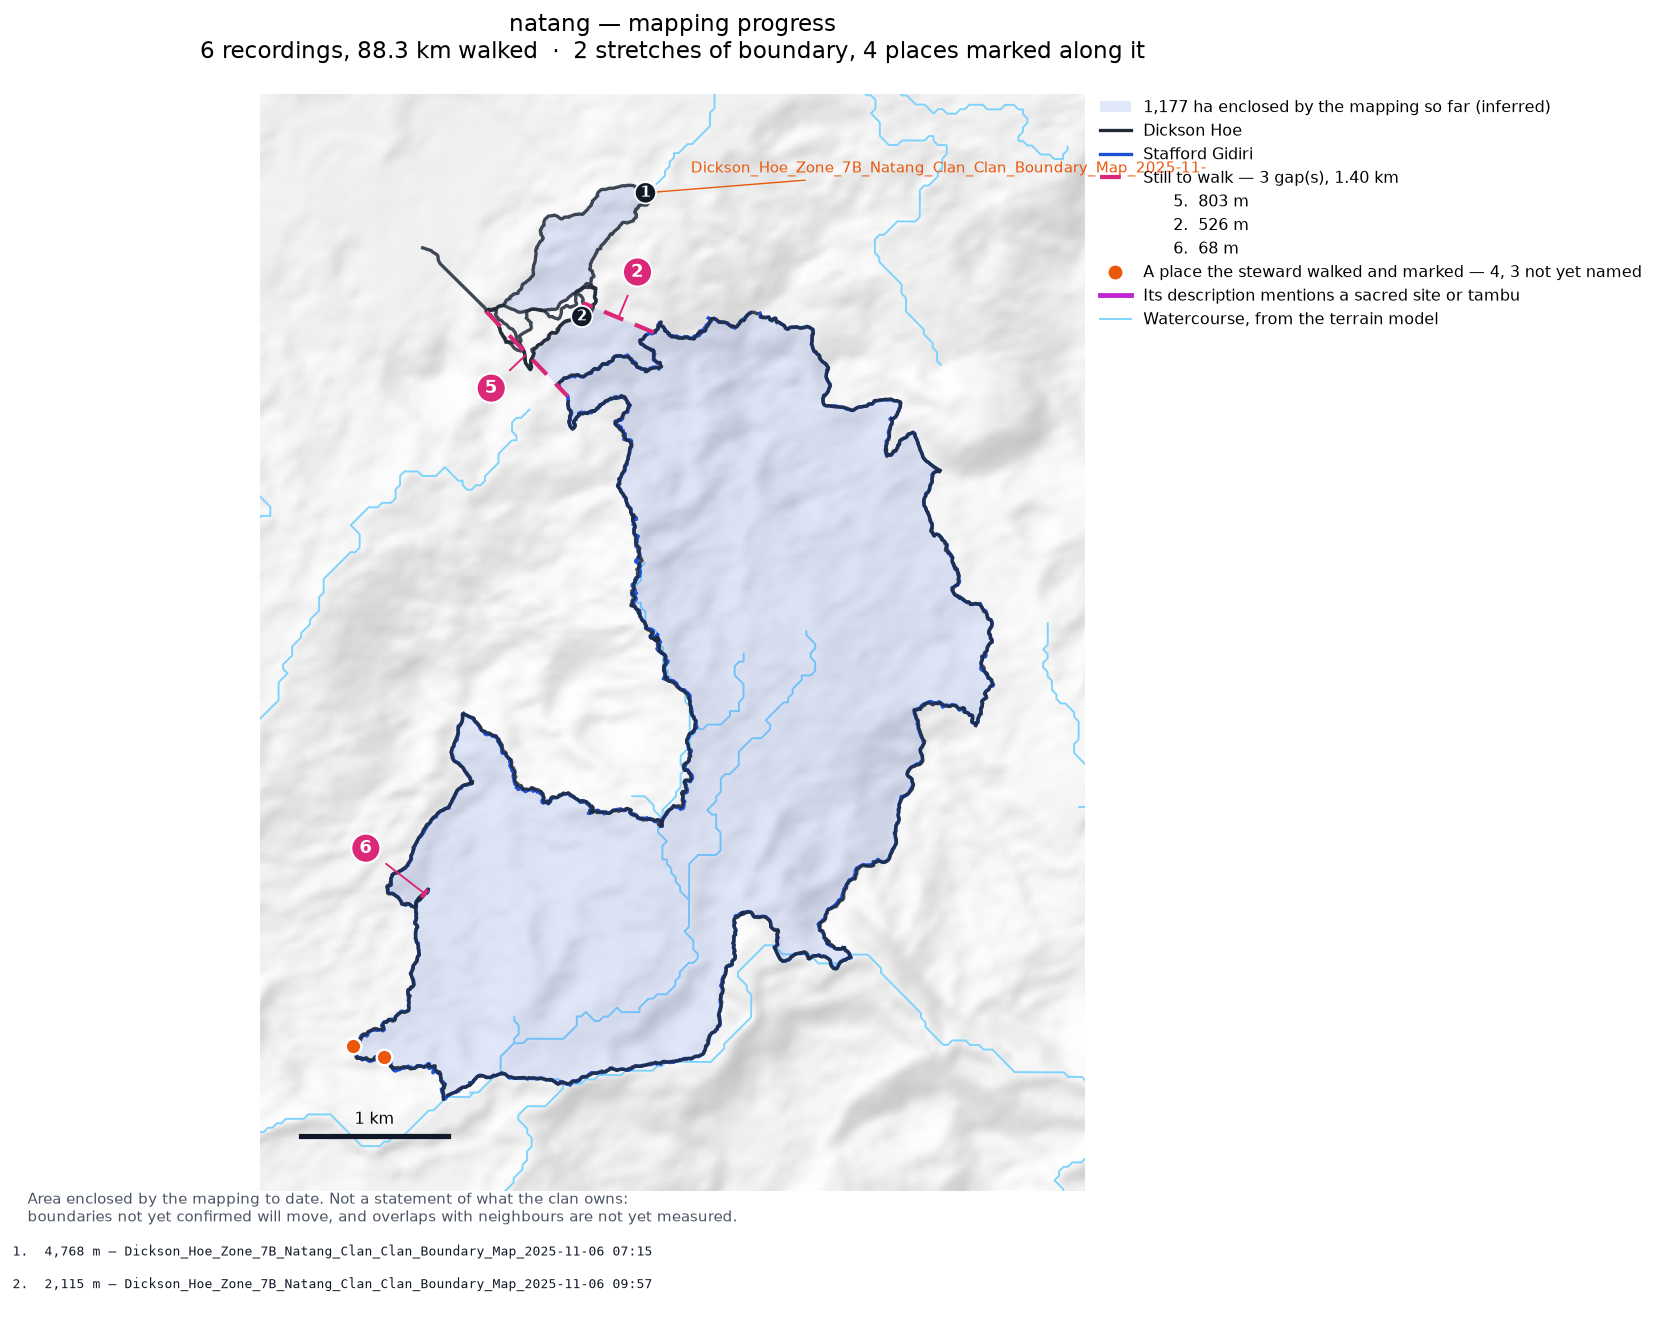
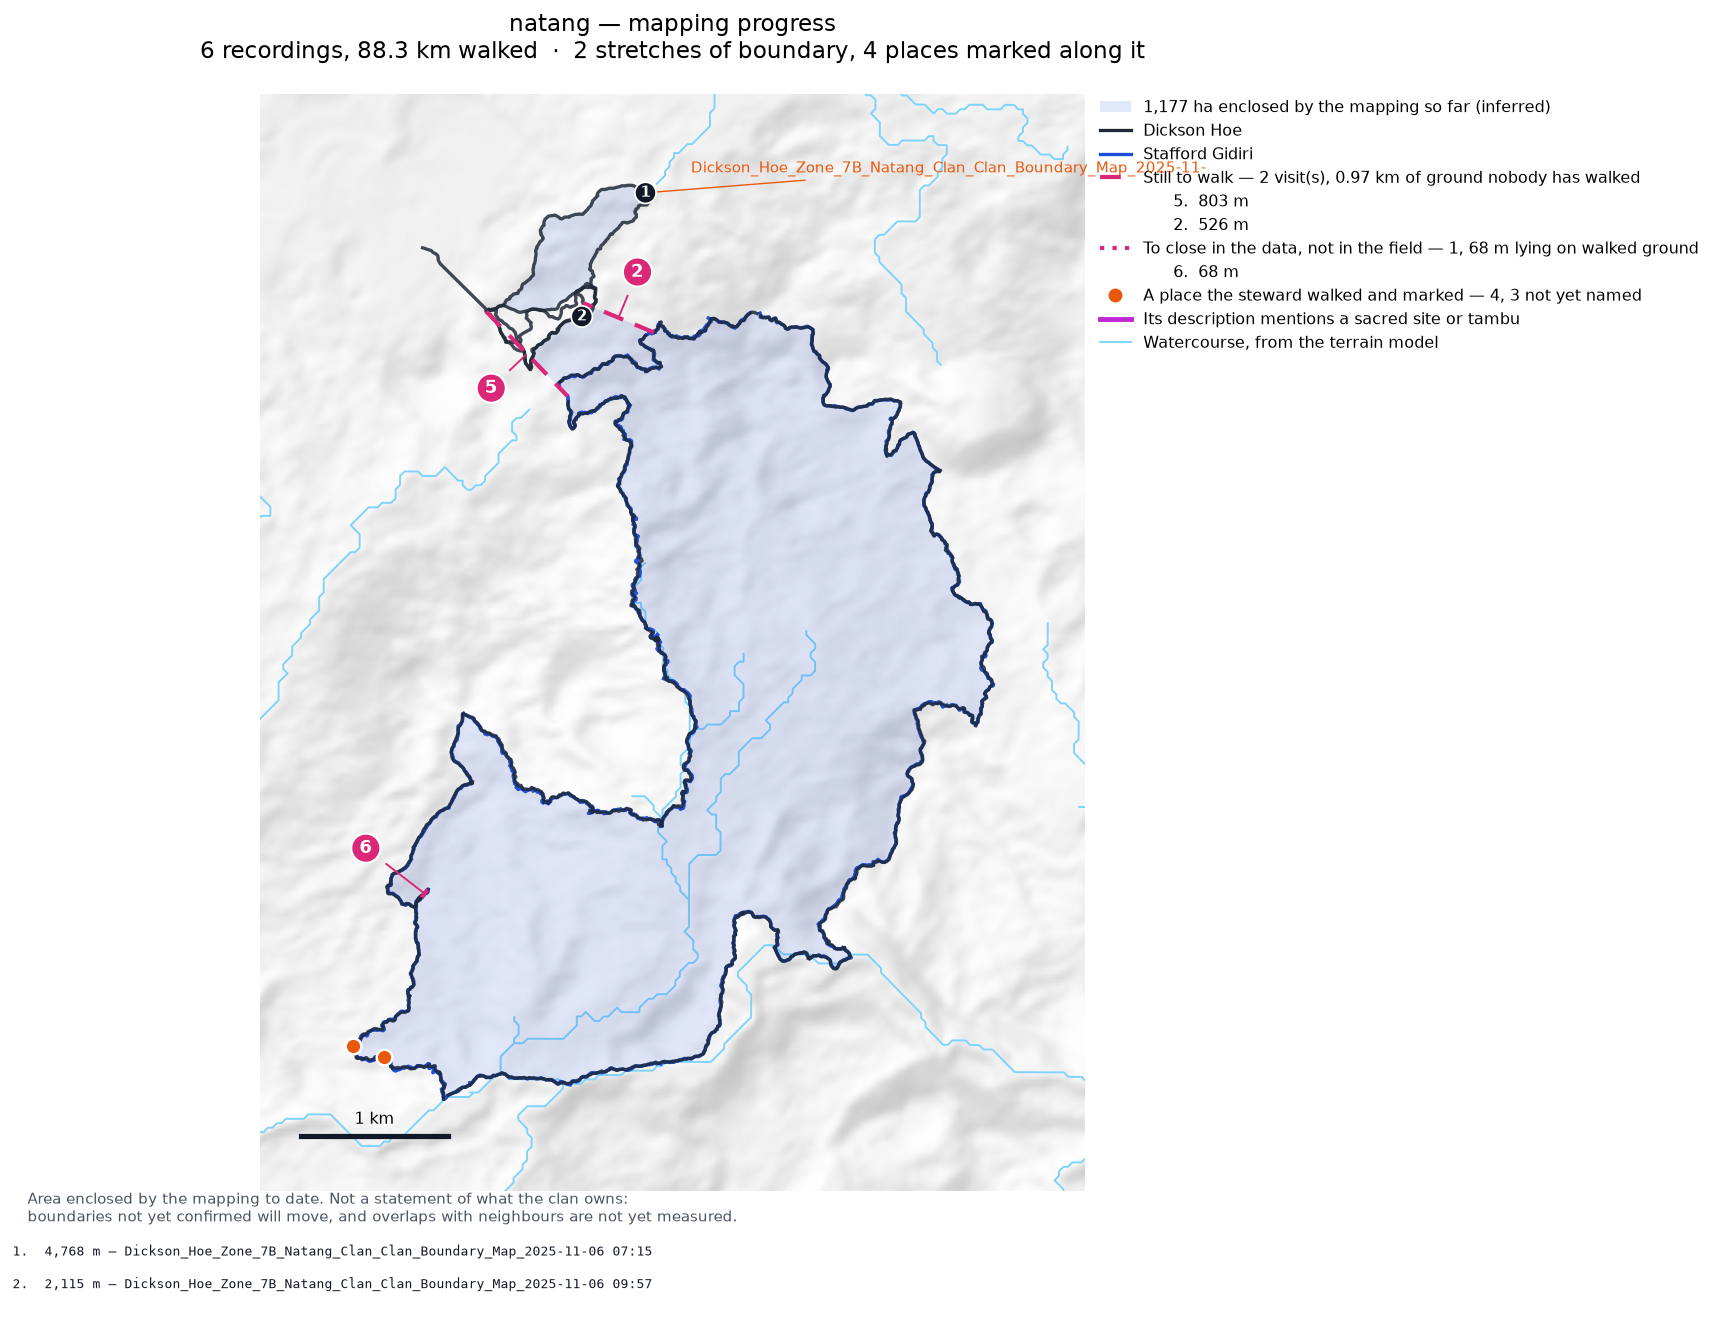
Retracing the walked line instead of pairing its ends; two fixes found
Towards the reviewer's instruction that fixing one chord must not break
the next.

scripts/retrace.py builds a boundary by following the walked line and
joining each break to where the line carries on, rather than choosing
for the survey as a whole which free ends to pair. unary_union nodes
every crossing exactly, so duplicates merge, T-junctions stop being
invisible and two stewards who walked the same boundary merge instead
of arriving as two sets of fragments. It works on Gumuyude (682.5
against 682.3) and does not yet work where the walks overlap densely:
Natang's two stewards give 748 chains and the perimeter does not come
out as a single face.

What does work, measured on eight surveys: take the walked line and the
chords, buffer by 20 m, and read off what the corridor encloses.

  survey        now    corridor      survey        now    corridor
  Natang      1176.7     1188.0      Rondi       1568.8     1569.0
  Juaiko      1295.1     1296.8      Sukandi     1901.4     1901.2
  Dusi         227.2      226.9      Riribudeh    396.6      396.3
  Gumuyude     682.3      681.7      Pina Ora     812.2      811.9

Every one within half a percent, with no free-end pairing involved at
all. The enclosure stops depending on a ring being stitched correctly.
The chords themselves still come from the global pairing, so that is
the part still to make local.

Also fixed, found on the way:

* polygons.survey_polygon ran the duplicate test over the adopted
[…]

diff --git a/scripts/retrace.py b/scripts/retrace.py
@@ -1,0 +1,226 @@
+#!/usr/bin/env python3
+"""Build the boundary by retracing the walked line, not by pairing ends.
+
+The closing step in use chooses, for the survey as a whole, which free
+ends to join so that everything strings into one ring. That makes every
+chord depend on every other: Natang's 68 m repair moved a chord four
+kilometres away from 803 m to 1,723 m, and nothing in the corner being
+worked on could have predicted it.
+
+This does what the reviewer asked for instead. The walked line is known.
+Follow it; where it breaks, join to where it continues; and only where
+nothing continues is a line drawn that nobody walked. Each break is
+answered by its own nearest continuation, so repairing one cannot move
+another.
+
+Three things fall out of doing it this way rather than as a graph of
+recorded parts:
+
+* `unary_union` nodes every crossing exactly, so a line that ends on
+  another line's middle is no longer invisible, and the hand-entered
+  nodes for T-junctions are not needed;
+* a stretch recorded twice merges into one, so duplicate saves stop
+  inverting the topology;
+* two stewards who walked the same boundary merge too, instead of
+  arriving as two sets of fragments to be stitched.
+
+What is enclosed is then asked of the geometry — every face the lines
+bound — rather than of a single ring the survey may not form.
+
+Usage:
+    python scripts/retrace.py --clan Natang
+    python scripts/retrace.py --all
+"""
+
+from __future__ import annotations
+
+import argparse
+import sys
+from pathlib import Path
+
+import geopandas as gpd
+from shapely.geometry import LineString, Point
+from shapely.ops import linemerge, polygonize, unary_union
+
+sys.path.insert(0, str(Path(__file__).resolve().parent))
+import dataio  # noqa: E402
+import chord_map  # noqa: E402
+import polygons as polygon_tools  # noqa: E402
+
+# How far apart two ends of one walk may be and still be the same place.
+# The same 25 m the rest of the pipeline uses.
+TOUCHING = 25.0
+
+# A face smaller than this is a track crossing itself, not land.
+MIN_FACE_M2 = 2_000.0
+
+
+def _chains(parts: list) -> list:
+    """The walked line as maximal chains, noded at every crossing."""
+    merged = linemerge(unary_union([p for p in parts if p.length > 0]))
+    out = merged.geoms if hasattr(merged, "geoms") else [merged]
+    return [g for g in out if g.length > 0]
+
+
+def weld(chains: list, tolerance: float = TOUCHING) -> list:
+    """Join every end that stops within reach of a line that carries on.
+
+    Declaring such an end "not free" is not enough — it leaves the two
+    lines unconnected, and the enclosure then finds nothing. The join has
+    to be drawn: from the end to the nearest point *on* the other line,
+    which also puts a node there. That is the T-junction that was
+    invisible to endpoint clustering, and it is what made Juaiko's and
+    Natang's lobes read as dead ends.
+    """
+    lines = list(chains)
+    for _ in range(3):
+        welds = []
+        network = unary_union(lines)
+        for line in lines:
+            for end in (Point(line.coords[0][:2]),
+                        Point(line.coords[-1][:2])):
+                others = [other for other in lines
+                          if other is not line
+                          and other.distance(end) <= tolerance]
+                if not others:
+                    continue
+                target = min(others, key=lambda o: o.distance(end))
+                onto = target.interpolate(target.project(end))
+                if end.distance(onto) > 0.01:
+                    welds.append(LineString([end, onto]))
+        if not welds:
+            break
+        lines = _chains(lines + welds)
+    return lines
+
+
+def _free_ends(chains: list, tolerance: float = TOUCHING) -> list:
+    """Points where the walked line stops and nothing carries on."""
+    loose = []
+    for chain in chains:
+        for end in (Point(chain.coords[0][:2]),
+                    Point(chain.coords[-1][:2])):
+            others = [other for other in chains
+                      if other is not chain and other.distance(end) <= 0.01]
+            if not others:
+                loose.append(end)
+    return _dedupe(loose, tolerance)
+
+
+def _dedupe(points: list, tolerance: float) -> list:
+    out: list = []
+    for point in points:
+        if all(point.distance(other) > tolerance for other in out):
+            out.append(point)
+    return out
+
+
+def joins(free: list, reach: float | None = None) -> list:
+    """Join each loose end to the nearest other, nearest pair first.
+
+    Local by construction. A join is decided by the two ends it joins and
+    by nothing else in the survey, so closing one break cannot move
+    another — which is the whole point of doing it this way.
+    """
+    remaining = list(free)
+    drawn = []
+    while len(remaining) >= 2:
+        best = None
+        for i in range(len(remaining)):
+            for j in range(i + 1, len(remaining)):
+                gap = remaining[i].distance(remaining[j])
+                if best is None or gap < best[0]:
+                    best = (gap, i, j)
+        gap, i, j = best
+        if reach is not None and gap > reach:
+            break
+        drawn.append(LineString([remaining[i], remaining[j]]))
+        for index in sorted((i, j), reverse=True):
+            remaining.pop(index)
+    return drawn
+
+
+def retrace(parts: list, derived: list | None = None) -> dict | None:
+    """The boundary, retraced."""
+    lines = _chains(list(parts) + list(derived or []))
+    if not lines:
+        return None
+    lines = weld(lines)
+    free = _free_ends(lines)
+    drawn = joins(free)
+    faces = [f for f in polygonize(unary_union(lines + drawn))
+             if f.area >= MIN_FACE_M2]
+    if not faces:
+        return None
+    land = unary_union(faces)
+    walked = unary_union(lines)
+    return {
+        "geometry": land,
+        "area_ha": land.area / 1e4,
+        "walked_km": sum(line.length for line in lines) / 1000,
+        "bridges": drawn,
+        "gap_km": sum(line.length for line in drawn) / 1000,
+        # Of the line drawn, how much is over ground nobody walked. That
+        # is the only part anyone has to go back for.
+        "unwalked_km": sum(
+            line.length - line.intersection(walked.buffer(10)).length
+            for line in drawn) / 1000,
+        "faces": len(faces),
+    }
+
+
+def _load():
+    published = gpd.read_file(dataio.SMOOTHED_DIR / "mca_tracks_smoothed.gpkg",
+                              layer="tracks_smoothed").to_crs(dataio.METRIC_CRS)
+    published = dataio.publishable(published, quiet=True)
+    published["_unit"] = dataio.survey_group(published)
+    return published
+
+
+def main(argv: list[str] | None = None) -> int:
+    parser = argparse.ArgumentParser(
+        description=__doc__,
+        formatter_class=argparse.RawDescriptionHelpFormatter)
+    parser.add_argument("--clan")
+    parser.add_argument("--all", action="store_true")
+    args = parser.parse_args(argv)
+
+    published = _load()
+    units = sorted(set(published._unit.dropna()))
+    if args.clan:
+        units = [u for u in units
+                 if u.lower().startswith(args.clan.lower())]
+        if not units:
+            print(f"No survey matching {args.clan!r}.")
+            return 1
+    elif not args.all:
+        parser.print_help()
+        return 1
+
+    print(f"{'survey':26s} {'now':>9s} {'retraced':>9s} "
+          f"{'gaps':>6s} {'km drawn':>9s} {'km unwalked':>12s}")
+    total_now = total_new = 0.0
+    for unit in units:
+        group = published[published._unit == unit]
+        parts = chord_map.parts_of(group)
+        frame = polygon_tools.adopted_frame(unit)
+        derived = ([] if frame is None or frame.empty
+                   else list(frame.geometry))
+        before = polygon_tools.survey_polygon(parts, 25.0, 0.50, 0.10,
+                                              derived=derived, unit=unit)
+        after = retrace(parts, derived)
+        now = before["area_ha"] if before else 0.0
+        new = after["area_ha"] if after else 0.0
+        total_now += now
+        total_new += new
+        print(f"{unit:26s} {now:9.1f} {new:9.1f} "
+              f"{(len(after['bridges']) if after else 0):6d} "
+              f"{(after['gap_km'] if after else 0):9.2f} "
+              f"{(after['unwalked_km'] if after else 0):12.2f}")
+    if len(units) > 1:
+        print(f"{'TOTAL':26s} {total_now:9.1f} {total_new:9.1f}")
+    return 0
+
+
+if __name__ == "__main__":
+    sys.exit(main())

diff --git a/scripts/everything_map.py b/scripts/everything_map.py
@@ -727,14 +727,42 @@ def main(argv: list[str] | None = None) -> int:
                   f"{sum(r[0].length for r in asserted) / 1000:.2f} km, "
                   f"for the clan to confirm"))
     if built is not None and built["bridges"]:
-        handles.append(Line2D(
-            [0], [0], color="#db2777", lw=2.4, linestyle=(0, (5, 3)),
-            label=f"Still to walk — {len(built['bridges'])} gap(s), "
-                  f"{sum(b.length for b in built['bridges']) / 1000:.2f} km"))
-        for index, bridge in enumerate(gap_order):
+        # A journey, or a job for an editor. Getting to these places takes
+        # days, and nobody should be sent for a gap whose ground has
+        # already been walked — Natang's 68 m lies on the walked line from
+        # end to end. The two were being counted together as "3 gaps", so
+        # a map that needed two visits read as if it needed three.
+        def unwalked_m(bridge):
+            return (bridge.length
+                    - bridge.intersection(walked_union.buffer(10)).length)
+
+        trips = [b for b in gap_order if unwalked_m(b) > 50]
+        editorial = [b for b in gap_order if unwalked_m(b) <= 50]
+        if trips:
             handles.append(Line2D(
-                [0], [0], color="none",
-                label=f"      {gap_numbers[index]}.  {bridge.length:,.0f} m"))
+                [0], [0], color="#db2777", lw=2.4, linestyle=(0, (5, 3)),
+                label=f"Still to walk — {len(trips)} visit(s), "
+                      f"{sum(unwalked_m(b) for b in trips) / 1000:.2f} km "
+                      f"of ground nobody has walked"))
+            for index, bridge in enumerate(gap_order):
+                if bridge in trips:
+                    handles.append(Line2D(
+                        [0], [0], color="none",
+                        label=f"      {gap_numbers[index]}.  "
+                              f"{bridge.length:,.0f} m"))
+        if editorial:
+            handles.append(Line2D(
+                [0], [0], color="#db2777", lw=2.4, linestyle=(0, (1, 2)),
+                label=f"To close in the data, not in the field — "
+                      f"{len(editorial)}, "
+                      f"{sum(b.length for b in editorial):,.0f} m "
+                      f"lying on walked ground"))
+            for index, bridge in enumerate(gap_order):
+                if bridge in editorial:
+                    handles.append(Line2D(
+                        [0], [0], color="none",
+                        label=f"      {gap_numbers[index]}.  "
+                              f"{bridge.length:,.0f} m"))
     handles += [
         Line2D([0], [0], marker="o", color="none", markerfacecolor="#ea580c",
                markeredgecolor="white", markersize=9,

diff --git a/scripts/polygons.py b/scripts/polygons.py
@@ -114,7 +114,14 @@ def survey_polygon(parts: list, tolerance: float, min_enclosure: float,
     # endpoints and the open ends of the boundary stop looking open. The
     # graph is built from one copy of each stretch; the geometry above is
     # built from all of them, and `walked_m` counts all of them.
-    keep = (closure.distinct_indices(parts)
+    # De-duplication is about recordings, not about decisions. An adopted
+    # segment lies on or beside the walked line by design — a join across
+    # a break, a centreline through a thicket — so the duplicate test
+    # recognises it as a copy and throws it away. Natang's 68 m join was
+    # adopted three times and changed nothing at all, because it never
+    # reached the graph.
+    keep = (closure.distinct_indices(walked) + list(
+                range(len(walked), len(parts)))
             if closure.approved_fix(unit, "collapse_duplicates")
             else list(range(len(parts))))
     distinct_m = sum(parts[i].length for i in keep)
